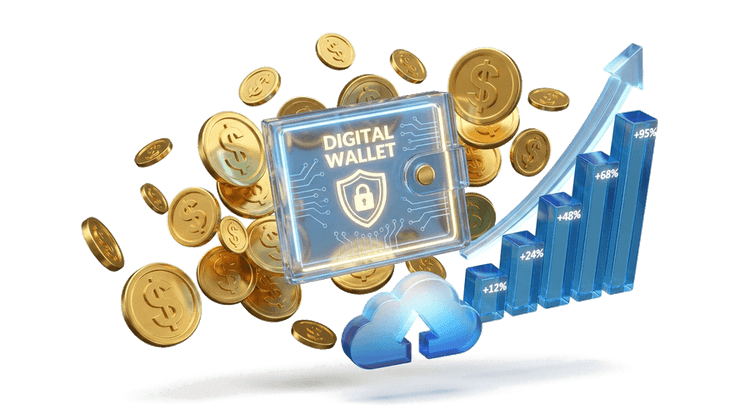
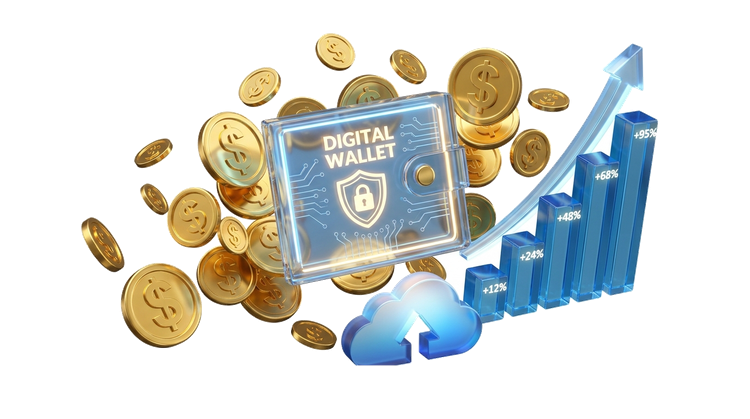
fix(assets): eliminate dark mode gray rectangular box by extracting true alpha 0 transparent 3D device assets

diff --git a/scripts/process-images.js b/scripts/process-images.js
@@ -1,0 +1,162 @@
+const sharp = require('sharp');
+const fs = require('fs');
+const path = require('path');
+
+const brainDir = 'C:/Users/Sohan/.gemini/antigravity-ide/brain/c6ceb3e2-d3d7-4b08-98a6-7bd7f542f949';
+const outDir = path.join(__dirname, '../public/images');
+
+const tasks = [
+  { file: 'mobile_3d_player_1791493695548.jpg', maxFloorY: 760, colorThresh: 215, width: 750, out: 'mobile-3d-player.png' },
+  { file: 'mobile_3d_wallet_1791493723902.jpg', maxFloorY: 760, colorThresh: 215, width: 750, out: 'mobile-3d-wallet.png' },
+  { file: 'dashboard_3d_laptop_1791493641571.jpg', maxFloorY: 645, colorThresh: 215, width: 750, out: 'dashboard-3d-laptop.png' },
+  { file: 'hero_3d_devices_1791491907908.jpg', maxFloorY: 645, colorThresh: 215, width: 1200, out: 'hero-3d-devices.png' },
+  { file: 'creator_3d_monetization_1791493752377.jpg', maxFloorY: 670, colorThresh: 215, width: 750, out: 'creator-3d-monetization.png' }
+];
+
+async function processImage(t) {
+  const inPath = path.join(brainDir, t.file);
+  const outPath = path.join(outDir, t.out);
+  
+  const { data, info } = await sharp(inPath).raw().toBuffer({ resolveWithObject: true });
+  const { width, height, channels } = info;
+  
+  const bg = new Uint8Array(width * height);
+  const queue = new Int32Array(width * height * 2);
+  let qHead = 0, qTail = 0;
+  
+  function isBgPixel(x, y) {
+    if (y >= t.maxFloorY) return true;
+    const idx = (y * width + x) * channels;
+    const r = data[idx], g = data[idx+1], b = data[idx+2];
+    const avg = (r + g + b) / 3;
+    const maxC = Math.max(r, g, b);
+    const minC = Math.min(r, g, b);
+    return avg >= t.colorThresh && (maxC - minC) <= 15;
+  }
+  
+  // Seed border pixels
+  for (let x = 0; x < width; x++) {
+    if (isBgPixel(x, 0)) { bg[x] = 1; queue[qTail++] = x; queue[qTail++] = 0; }
+    const botIdx = (height - 1) * width + x;
+    if (isBgPixel(x, height - 1)) { bg[botIdx] = 1; queue[qTail++] = x; queue[qTail++] = height - 1; }
+  }
+  for (let y = 0; y < height; y++) {
+    if (isBgPixel(0, y)) { bg[y * width] = 1; queue[qTail++] = 0; queue[qTail++] = y; }
+    const rIdx = y * width + (width - 1);
+    if (isBgPixel(width - 1, y)) { bg[rIdx] = 1; queue[qTail++] = width - 1; queue[qTail++] = y; }
+  }
+  
+  const dx = [-1, 1, 0, 0], dy = [0, 0, -1, 1];
+  while (qHead < qTail) {
+    const cx = queue[qHead++];
+    const cy = queue[qHead++];
+    for (let i = 0; i < 4; i++) {
+      const nx = cx + dx[i];
+      const ny = cy + dy[i];
+      if (nx >= 0 && nx < width && ny >= 0 && ny < height) {
+        const nIdx = ny * width + nx;
+        if (!bg[nIdx] && isBgPixel(nx, ny)) {
+          bg[nIdx] = 1;
+          queue[qTail++] = nx;
+          queue[qTail++] = ny;
+        }
+      }
+    }
+  }
+  
+  // Construct full-res RGBA
+  const rgba = Buffer.alloc(width * height * 4);
+  for (let y = 0; y < height; y++) {
+    for (let x = 0; x < width; x++) {
+      const pIdx = y * width + x;
+      const srcIdx = pIdx * channels;
+      const dstIdx = pIdx * 4;
+      if (bg[pIdx] === 1) {
+        rgba[dstIdx] = 0;
+        rgba[dstIdx + 1] = 0;
+        rgba[dstIdx + 2] = 0;
+        rgba[dstIdx + 3] = 0;
+      } else {
+        rgba[dstIdx] = data[srcIdx];
+        rgba[dstIdx + 1] = data[srcIdx + 1];
+        rgba[dstIdx + 2] = data[srcIdx + 2];
+        rgba[dstIdx + 3] = 255;
+      }
+    }
+  }
+  
+  // Resize to web target width with Lanczos3
+  const resizedRaw = await sharp(rgba, { raw: { width, height, channels: 4 } })
+    .resize({ width: t.width, kernel: sharp.kernel.lanczos3 })
+    .raw()
+    .toBuffer({ resolveWithObject: true });
+    
+  const rw = resizedRaw.info.width;
+  const rh = resizedRaw.info.height;
+  const resBuf = resizedRaw.data;
+  
+  // Clean up sub-pixel alpha & perimeter
+  const borderMargin = 4;
+  for (let y = 0; y < rh; y++) {
+    for (let x = 0; x < rw; x++) {
+      const idx = (y * rw + x) * 4;
+      // Guarantee border margin is strictly 0
+      if (x < borderMargin || x >= rw - borderMargin || y < borderMargin || y >= rh - borderMargin) {
+        resBuf[idx] = 0;
+        resBuf[idx + 1] = 0;
+        resBuf[idx + 2] = 0;
+        resBuf[idx + 3] = 0;
+        continue;
+      }
+      
+      const a = resBuf[idx + 3];
+      // Clamp tiny alpha ringing
+      if (a <= 4) {
+        resBuf[idx] = 0;
+        resBuf[idx + 1] = 0;
+        resBuf[idx + 2] = 0;
+        resBuf[idx + 3] = 0;
+      } else if (a < 35) {
+        const r = resBuf[idx], g = resBuf[idx + 1], b = resBuf[idx + 2];
+        const avg = (r + g + b) / 3;
+        // If low alpha pixel is very bright, clamp to 0 to eliminate light fringe
+        if (avg >= 200) {
+          resBuf[idx] = 0;
+          resBuf[idx + 1] = 0;
+          resBuf[idx + 2] = 0;
+          resBuf[idx + 3] = 0;
+        }
+      }
+    }
+  }
+  
+  // Save as high-quality PNG
+  await sharp(resBuf, { raw: { width: rw, height: rh, channels: 4 } })
+    .png({ compressionLevel: 9, adaptiveFiltering: true })
+    .toFile(outPath);
+    
+  // Verification
+  const verify = await sharp(outPath).raw().toBuffer({ resolveWithObject: true });
+  let zero = 0, nonZero = 0, edgeNonZero = 0, edgeTotal = 0;
+  for (let y = 0; y < verify.info.height; y++) {
+    for (let x = 0; x < verify.info.width; x++) {
+      const idx = (y * verify.info.width + x) * 4;
+      const a = verify.data[idx + 3];
+      if (a === 0) zero++; else nonZero++;
+      if (x === 0 || x === verify.info.width - 1 || y === 0 || y === verify.info.height - 1) {
+        edgeTotal++;
+        if (a !== 0) edgeNonZero++;
+      }
+    }
+  }
+  
+  const fileSizeKB = Math.round(fs.statSync(outPath).size / 1024);
+  console.log('[SUCCESS] ' + t.out + ': ' + verify.info.width + 'x' + verify.info.height + ' (' + fileSizeKB + ' KB) | zeroAlpha: ' + zero + ' | nonZeroAlpha: ' + nonZero + ' | edgeNonZero: ' + edgeNonZero + '/' + edgeTotal);
+}
+
+(async () => {
+  for (const t of tasks) {
+    await processImage(t);
+  }
+  console.log('All images successfully processed and verified!');
+})();
